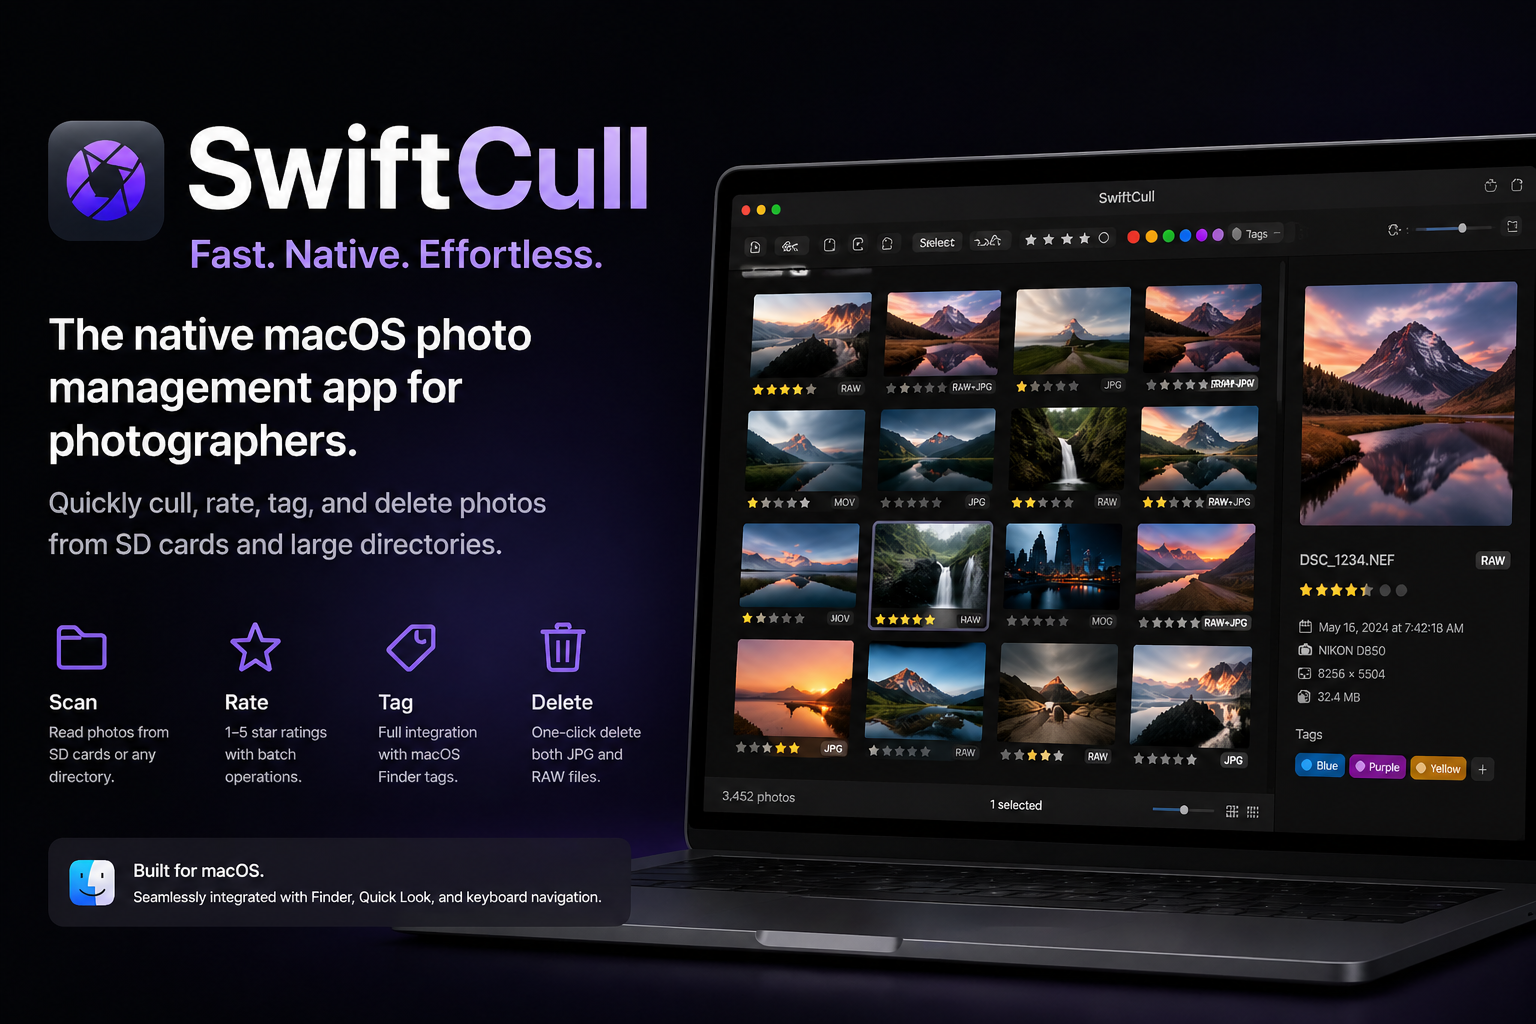
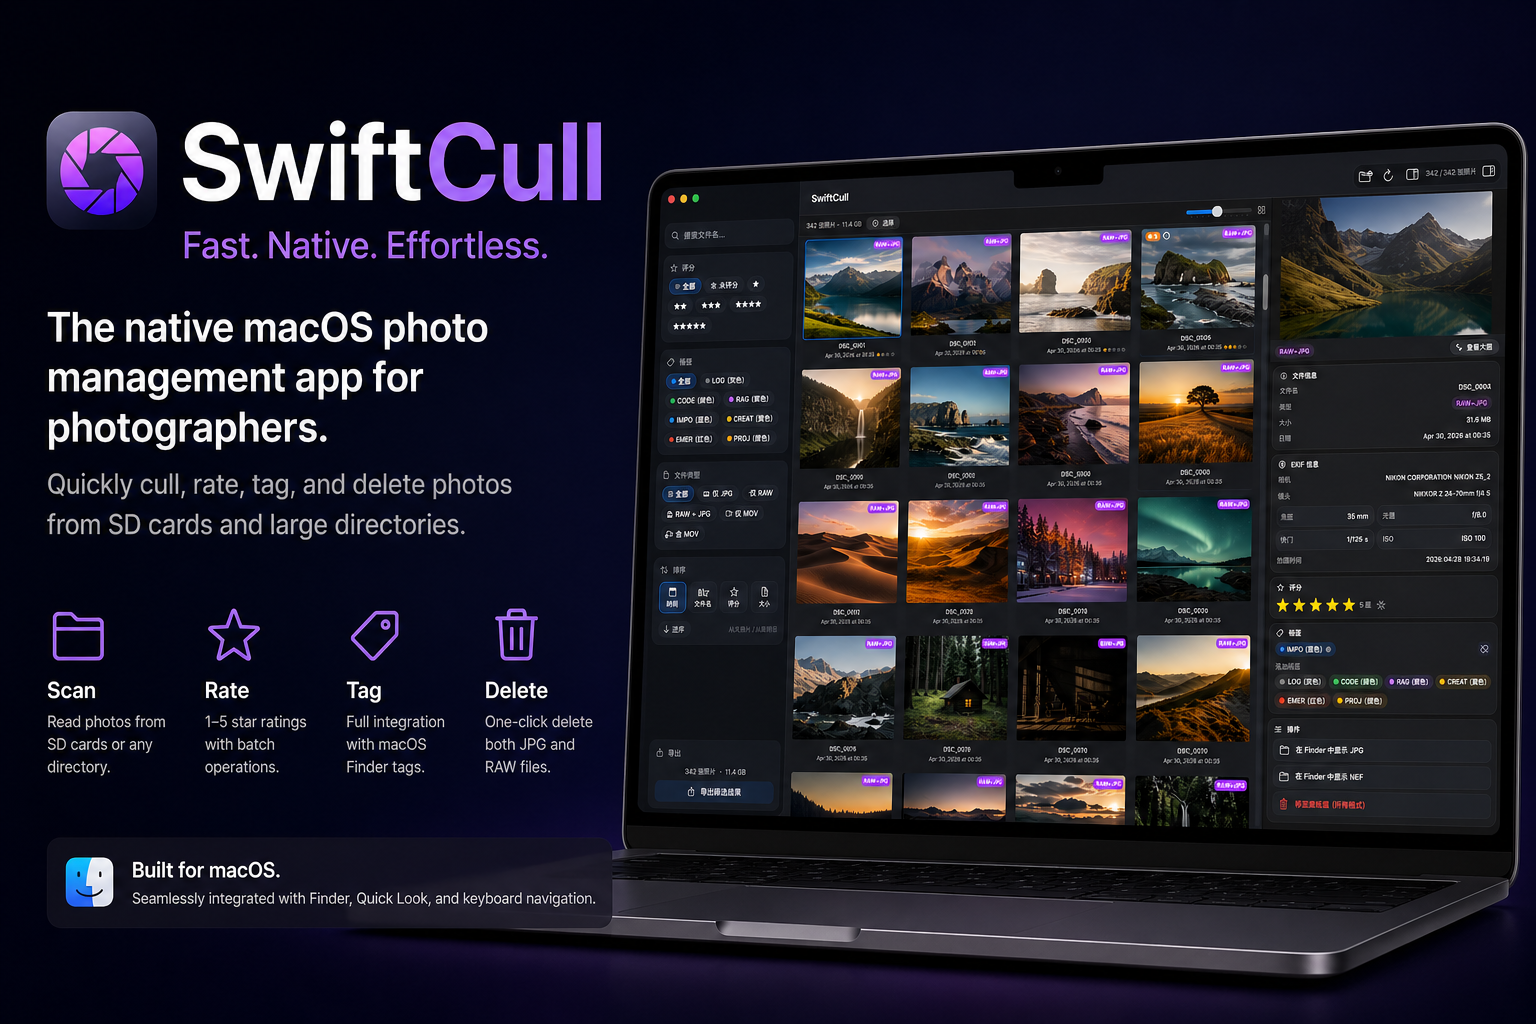
docs: update readme

diff --git a/README.md b/README.md
@@ -16,20 +16,20 @@
 **4. 📷 EXIF 信息，一目了然**
 自动提取相机型号、镜头、焦距、光圈、快门速度、ISO、拍摄时间等 EXIF 数据，基于 ImageIO 框架纯原生实现。
 
+## 📸 界面预览
+
+| 深色模式 | 浅色模式 |
+|:--------:|:--------:|
+| <img src="./imgs/dark.jpeg" width="400" /> | <img src="./imgs/light.jpeg" width="400" /> |
+
 ## ⌨ 快捷键
 
-| 快捷键 | 功能 |
-|--------|------|
-| `←` `→` `↑` `↓` | 在照片间导航 |
-| `Space` | Quick Look 大图预览 |
-| `1`–`5` | 设置 1–5 星评分 |
-| `0` | 清除评分 |
-| `E` | 切换网格/单张预览模式 |
-| `Tab` | 显示/隐藏侧边栏 |
-| `A` | 全选照片 |
-| `⌫` / `Delete` | 删除选中照片 |
-| `⌘O` | 打开文件夹 |
-| `⌘/` | 快捷键指南 |
+| 导航 | 评分 | 视图 | 操作 |
+|:----:|:----:|:----:|:----:|
+| `←` `→` 前后切换 | `1`–`5` 设置评分 | `E` 网格/单张切换 | `⌘O` 打开文件夹 |
+| `↑` `↓` 按列跳转 | `0` 清除评分 | `Tab` 侧边栏开关 | `A` 全选 |
+| `Space` Quick Look 预览 | | | `⌫` 删除选中 |
+| | | | `⌘/` 快捷键指南 |
 
 ## 🛠 系统要求
 
